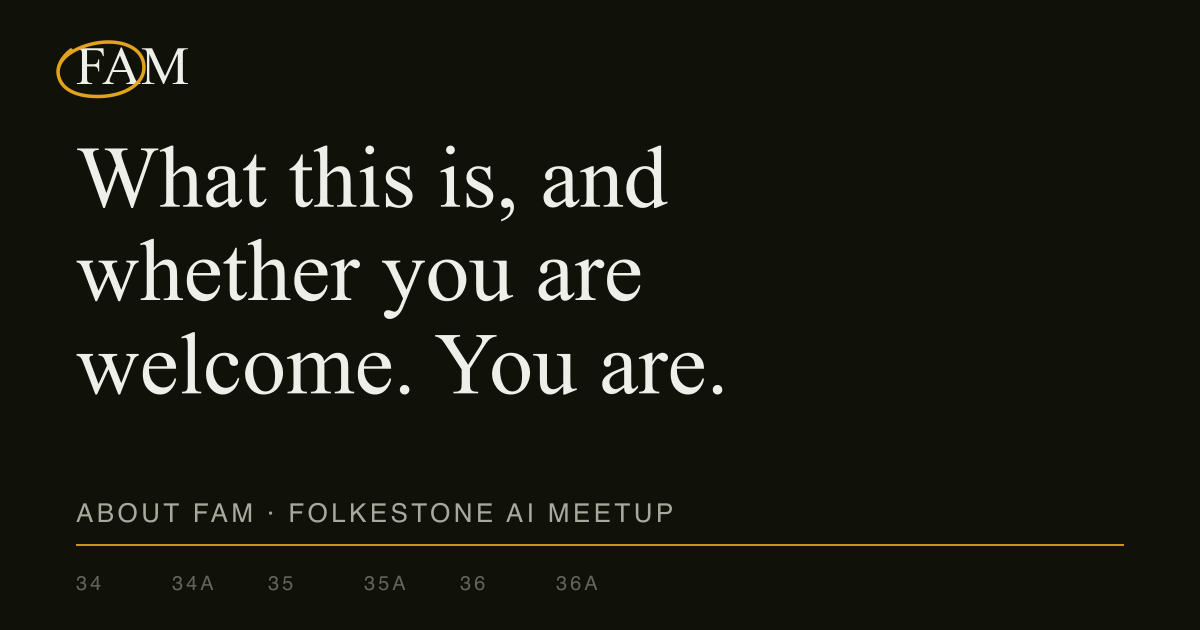
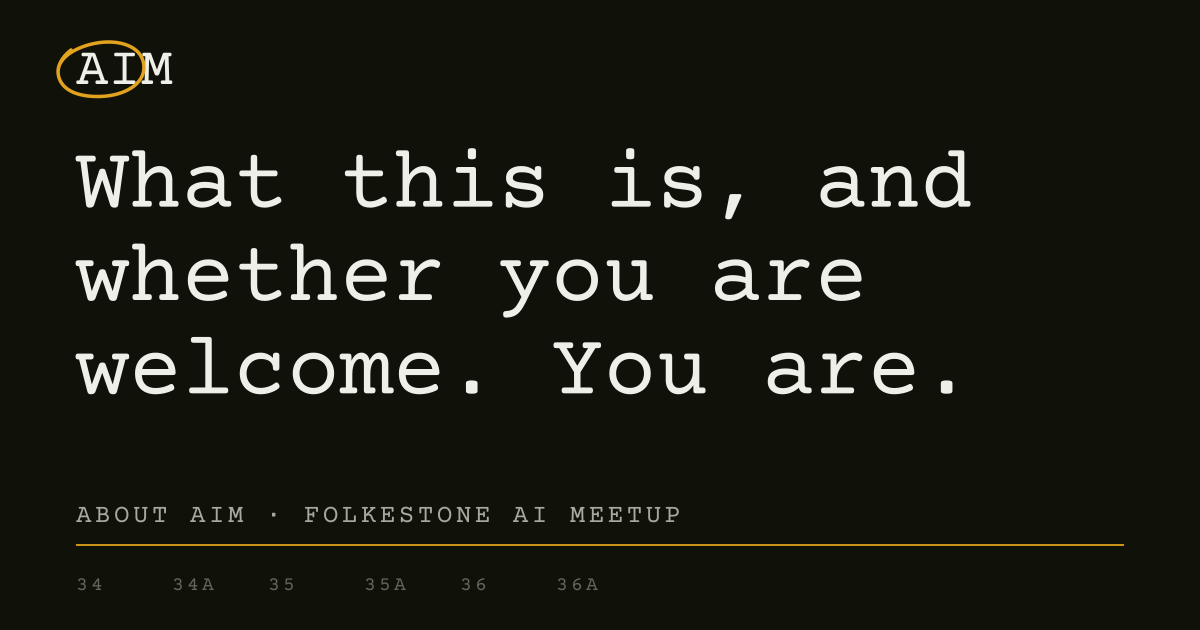
Rename FAM to AIM site-wide (TAV-215)

diff --git a/src/config.ts b/src/config.ts
@@ -9,15 +9,15 @@
  */
 
 export const site = {
-  url: 'https://fam.andcake.dev',
-  name: 'FAM',
-  fullName: 'FAM — Folkestone AI Meetup',
+  url: 'https://aim.andcake.dev',
+  name: 'AIM',
+  fullName: 'AIM — Folkestone AI Meetup',
   /** Used as the default meta description and in the footer. */
   tagline:
     'A monthly evening in Folkestone for people interested on AI. No technical knowledge necessary.' +
     'Everybody is welcome: artists, filmmakers, ' +
     'producers, designers, developers, students, and anyone who are curious, sceptical, or somewhere in between about AI.',
-  email: 'fam@andcake.dev',
+  email: 'aim@andcake.dev',
 } as const;
 
 export const luma = {
@@ -41,7 +41,7 @@ export const luma = {
  * the calendar instead of showing a checkout button — nothing breaks, nobody sees an error.
  */
 export const featuredEvent = {
-  /** Which FAM this is. This is the first one. */
+  /** Which AIM this is. This is the first one. */
   number: 2,
   title: 'Practical AI',
   /** ISO 8601, local time. */
@@ -86,7 +86,7 @@ export const venueAccess = {
 export const analytics = {
   enabled: false,
   provider: 'plausible' as 'plausible' | 'umami',
-  domain: 'fam.andcake.dev',
+  domain: 'aim.andcake.dev',
   scriptUrl: 'https://plausible.io/js/script.js',
 } as const;
 

diff --git a/src/content.config.ts b/src/content.config.ts
@@ -15,7 +15,7 @@ const pastEvents = defineCollection({
   loader: glob({ pattern: '*.md', base: './src/content/past-events' }),
   schema: ({ image }) =>
     z.object({
-      /** FAM 01, FAM 02… shown in the sheet header. */
+      /** AIM 01, AIM 02… shown in the sheet header. */
       number: z.number().int().positive(),
       title: z.string().min(1),
       date: z.coerce.date(),

diff --git a/src/styles/tokens.css b/src/styles/tokens.css
@@ -1,5 +1,5 @@
 /*
-  FAM design tokens. See DESIGN.md.
+  AIM design tokens. See DESIGN.md.
 
   The palette is a contact sheet lying on a light box: the diffused white of the table,
   the black of the film rebate, and the two colours of wax pencil a picture editor marks

diff --git a/CODE_OF_CONDUCT.md b/CODE_OF_CONDUCT.md
@@ -1,6 +1,6 @@
 # Code of conduct
 
-FAM is a room full of people who disagree with each other. That is the point of it, and it
+AIM is a room full of people who disagree with each other. That is the point of it, and it
 only works if everybody in the room is safe to be there. This is the short version of how
 we keep that true.
 
@@ -41,7 +41,7 @@ comes out of it.
 ## If something happens
 
 Find Ivan, or any other organiser. You can also email
-[fam@andcake.dev](mailto:fam@andcake.dev) at any time, including anonymously from an
+[aim@andcake.dev](mailto:aim@andcake.dev) at any time, including anonymously from an
 address we won't recognise.
 
 You will be believed and taken seriously. We will not tell you what you should have done
@@ -62,4 +62,4 @@ Organisers are held to this more strictly than anybody else, not less.
 ---
 
 *Adapted from the practices of a lot of other meetups who worked this out before us. If
-you think something here is wrong or missing, tell us, [fam@andcake.dev](mailto:fam@andcake.dev).*
+you think something here is wrong or missing, tell us, [aim@andcake.dev](mailto:aim@andcake.dev).*

diff --git a/src/content/past-events/first.md b/src/content/past-events/first.md
@@ -19,7 +19,7 @@ links:                 # optional, slides, recordings, things people made
     url: https://knotes.andcake.dev
 ---
 
-First FAM event and what a night! We were expecting 5 people and 20 of you showed up!
+First AIM event and what a night! We were expecting 5 people and 20 of you showed up!
 
 Besides the initial suprise and the usual technical issues, we kicked off a great night to learn, share and connect with other people. We are very excited about this community we hope to grow and nurture little by little with the help of all of you.
 

diff --git a/README.md b/README.md
@@ -1,4 +1,4 @@
-# FAM, Folkestone AI Meetup
+# AIM, Folkestone AI Meetup
 
 The website for a monthly meetup in Folkestone. Six pages, no database, no backend, no
 accounts, no cookies. Everything about the site is a file in this repository.
@@ -165,5 +165,5 @@ Three, all OFL, all self-hosted from npm:
 
 ## Licence
 
-Code: MIT, see `LICENSE`. The photographs and written content are not, they belong to FAM
+Code: MIT, see `LICENSE`. The photographs and written content are not, they belong to AIM
 and the people in them.
